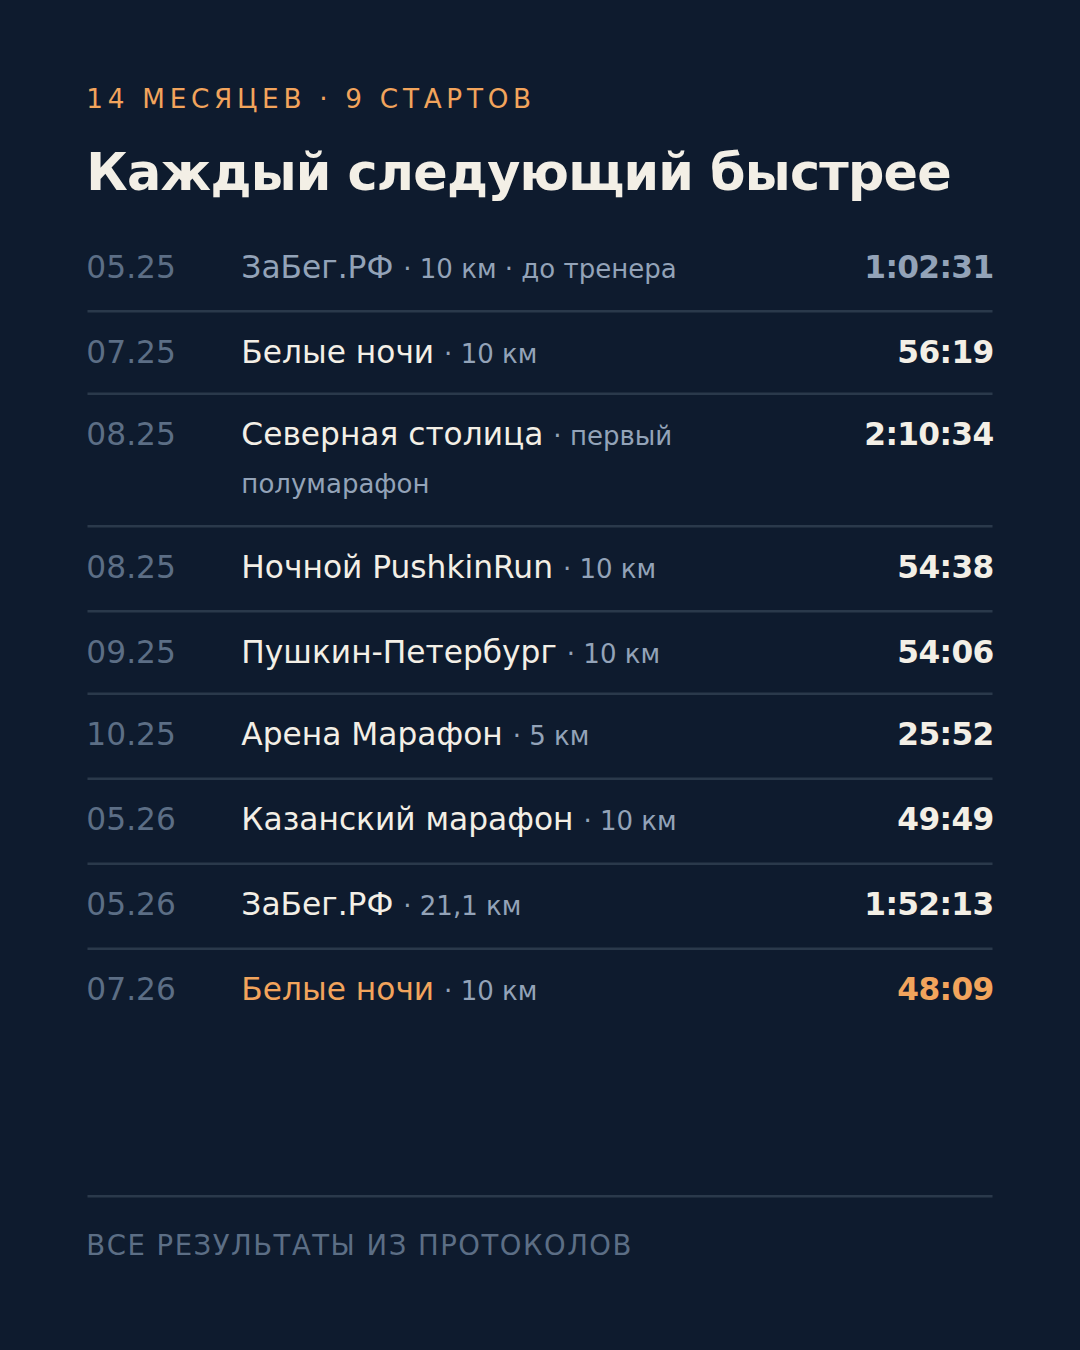
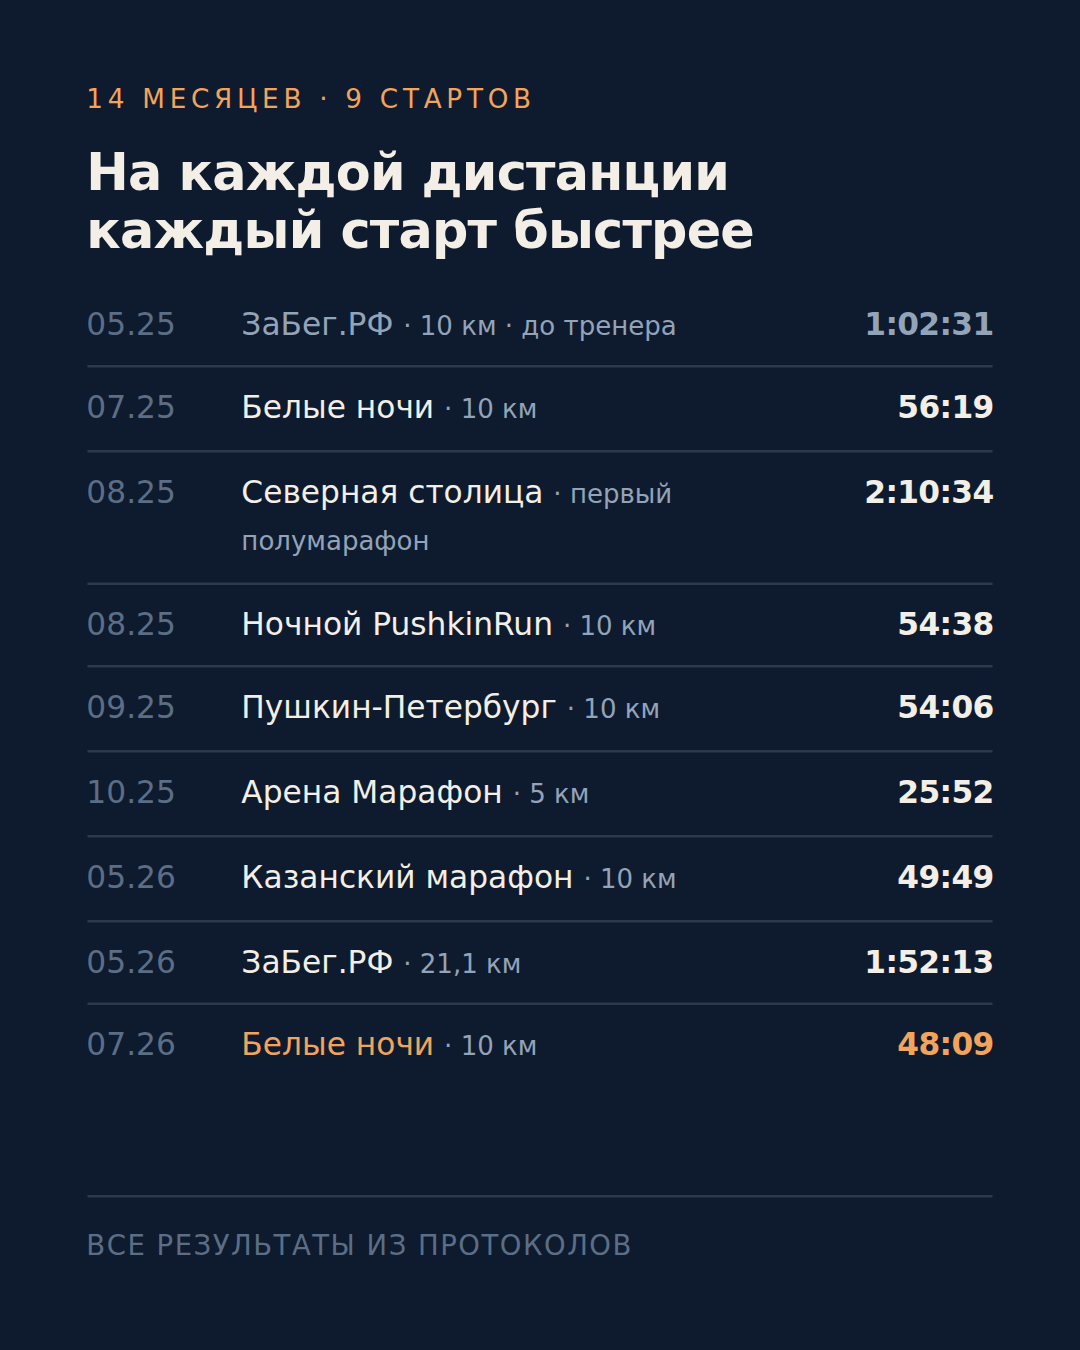
Кейс Марины: исправлен темп в гонке и шесть правок по наряду
Главное: темп на десятке в 2026 считался от дистанции по часам (10,409 км)
и давал 4:38/км, тогда как парная цифра за 2025 год посчитана от официальных
10 км. Обе приведены к официальной дистанции: 5:38 и 4:49.

Остальное: заголовок слайда со стартами уточнён до «На каждой дистанции
каждый старт быстрее», в тексте поста тезис разведён по дистанциям,
убрано слово «ровно» про год, реплика тренера «Скоро 45 будет» подписана.

Claude-Session: https://claude.ai/code/session_01TCkfnjNSfYqVL2bsDidSCb

diff --git a/docs/cases/marina-nikolaeva/instagram-carousel-mockup.html b/docs/cases/marina-nikolaeva/instagram-carousel-mockup.html
@@ -115,7 +115,7 @@
         <div class="cover-top">
           <div class="eyebrow">Сообщение от 23 мая 2026 года</div>
           <h2 class="big">«И что ты<br>со мной сделал?)»</h2>
-          <p class="sub" style="color:rgba(243,239,230,.9)">Марина написала это ровно через год после первой тренировки</p>
+          <p class="sub" style="color:rgba(243,239,230,.9)">Марина написала это через год после первой тренировки</p>
         </div>
         <div class="cover-bottom">
           <div style="font-size:11px;letter-spacing:.16em;text-transform:uppercase;color:rgba(243,239,230,.8);margin-bottom:6px">10 км за 14 месяцев</div>
@@ -143,7 +143,7 @@
     <div class="slot"><span class="slot-cap">Слайд 3 · хронология стартов</span>
       <div class="slide">
         <div class="eyebrow">14 месяцев · 9 стартов</div>
-        <h2>Каждый следующий быстрее</h2>
+        <h2>На каждой дистанции каждый старт быстрее</h2>
         <div class="tl" style="flex:1">
           <div class="row pre"><span class="d">05.25</span><span class="e">ЗаБег.РФ <small>· 10 км · до тренера</small></span><span class="t num">1:02:31</span></div>
           <div class="row"><span class="d">07.25</span><span class="e">Белые ночи <small>· 10 км</small></span><span class="t num">56:19</span></div>
@@ -232,7 +232,7 @@
             </g>
           </svg>
         </div>
-        <div class="foot"><span>в гонке темп с 5:38 до 4:38 на км</span></div>
+        <div class="foot"><span>в гонке темп с 5:38 до 4:49 на км</span></div>
       </div>
     </div>
 
@@ -277,7 +277,7 @@
           <div class="quote">«Почему я так в себе не уверена?))»<div class="who">июнь 2025</div></div>
           <div class="quote">«Мне не верилось, что я на такой скорости могу так бежать»<div class="who">июль 2025, после 56:19</div></div>
           <div class="quote">«Я не могу поверить 🤗 <em>Ой, я плачу 😭</em>»<div class="who">май 2026, Казань, 49:49</div></div>
-          <div class="quote">«Я недовольна собой. Потому что не 47)»<br>«<em>Скоро 45 будет</em>»<div class="who">июль 2026, после 48:09</div></div>
+          <div class="quote">«Я недовольна собой. Потому что не 47)»<br><span style="color:var(--faint)">я в ответ:</span> <em>«Скоро 45 будет)»</em><div class="who">июль 2026, после 48:09</div></div>
         </div>
         <div class="foot"><span>из переписки за год работы</span></div>
       </div>
@@ -315,13 +315,13 @@
 · 247 пробежек и 2 224 километра
 · научились бегать медленно: было 7:03/км на пульсе 145, стало 5:59/км на том же пульсе
 · первый в жизни полумарафон за 2:10, через девять месяцев 1:52
-· 9 стартов, и каждый следующий быстрее предыдущего
+· 6 стартов на 10 км, и каждый следующий быстрее предыдущего; полумарафон с 2:10 до 1:52
 
 Никакого секрета: аэробная база, терпение и система. Скорость пришла сама, как следствие.
 
 После финиша в 48:09 она написала: «Я недовольна собой. Потому что не 47». Вот это и есть главный результат. Человек, который год назад в себя не верил, теперь злится на 48.
 
-А ровно через год после старта работы прислала: «И что ты со мной сделал?)»
+А через год после старта работы прислала: «И что ты со мной сделал?)»
 
 В это воскресенье Марина бежит «Северную столицу». Будем следить в сторис.
 
